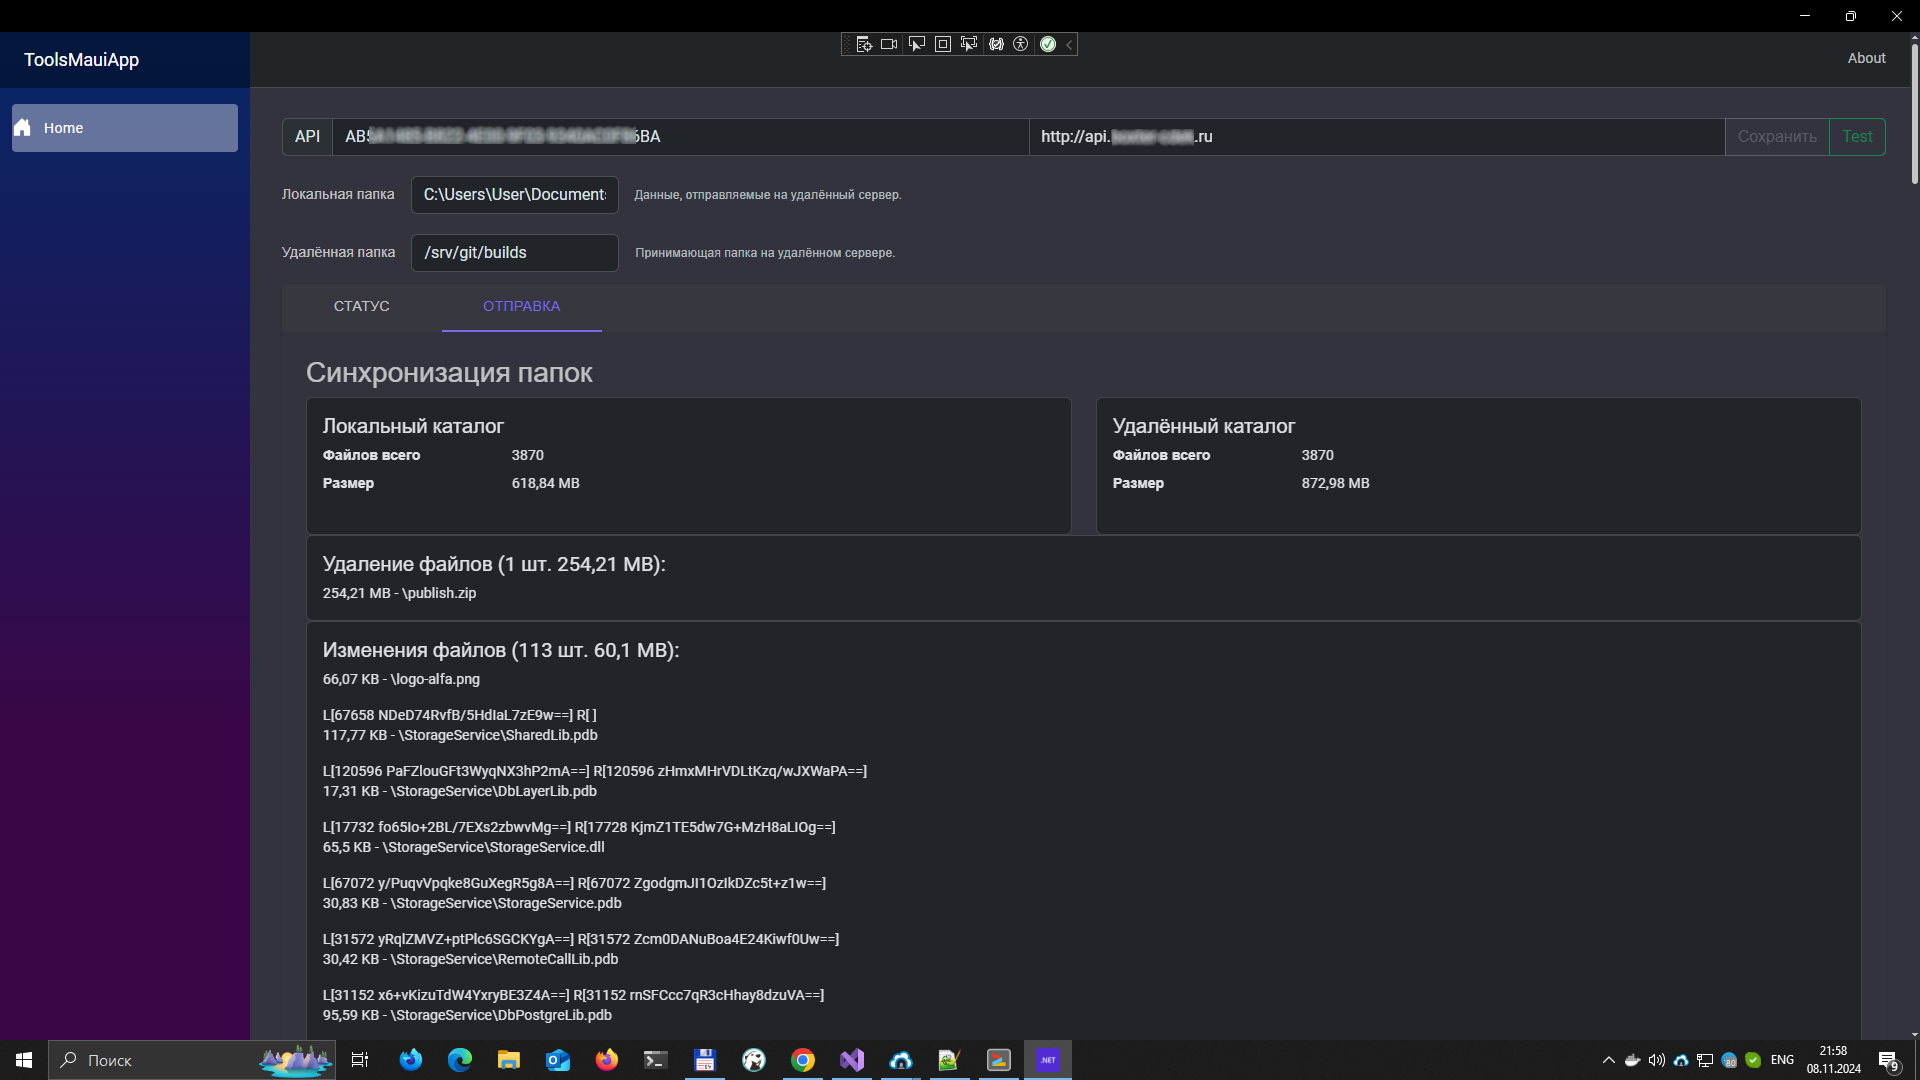
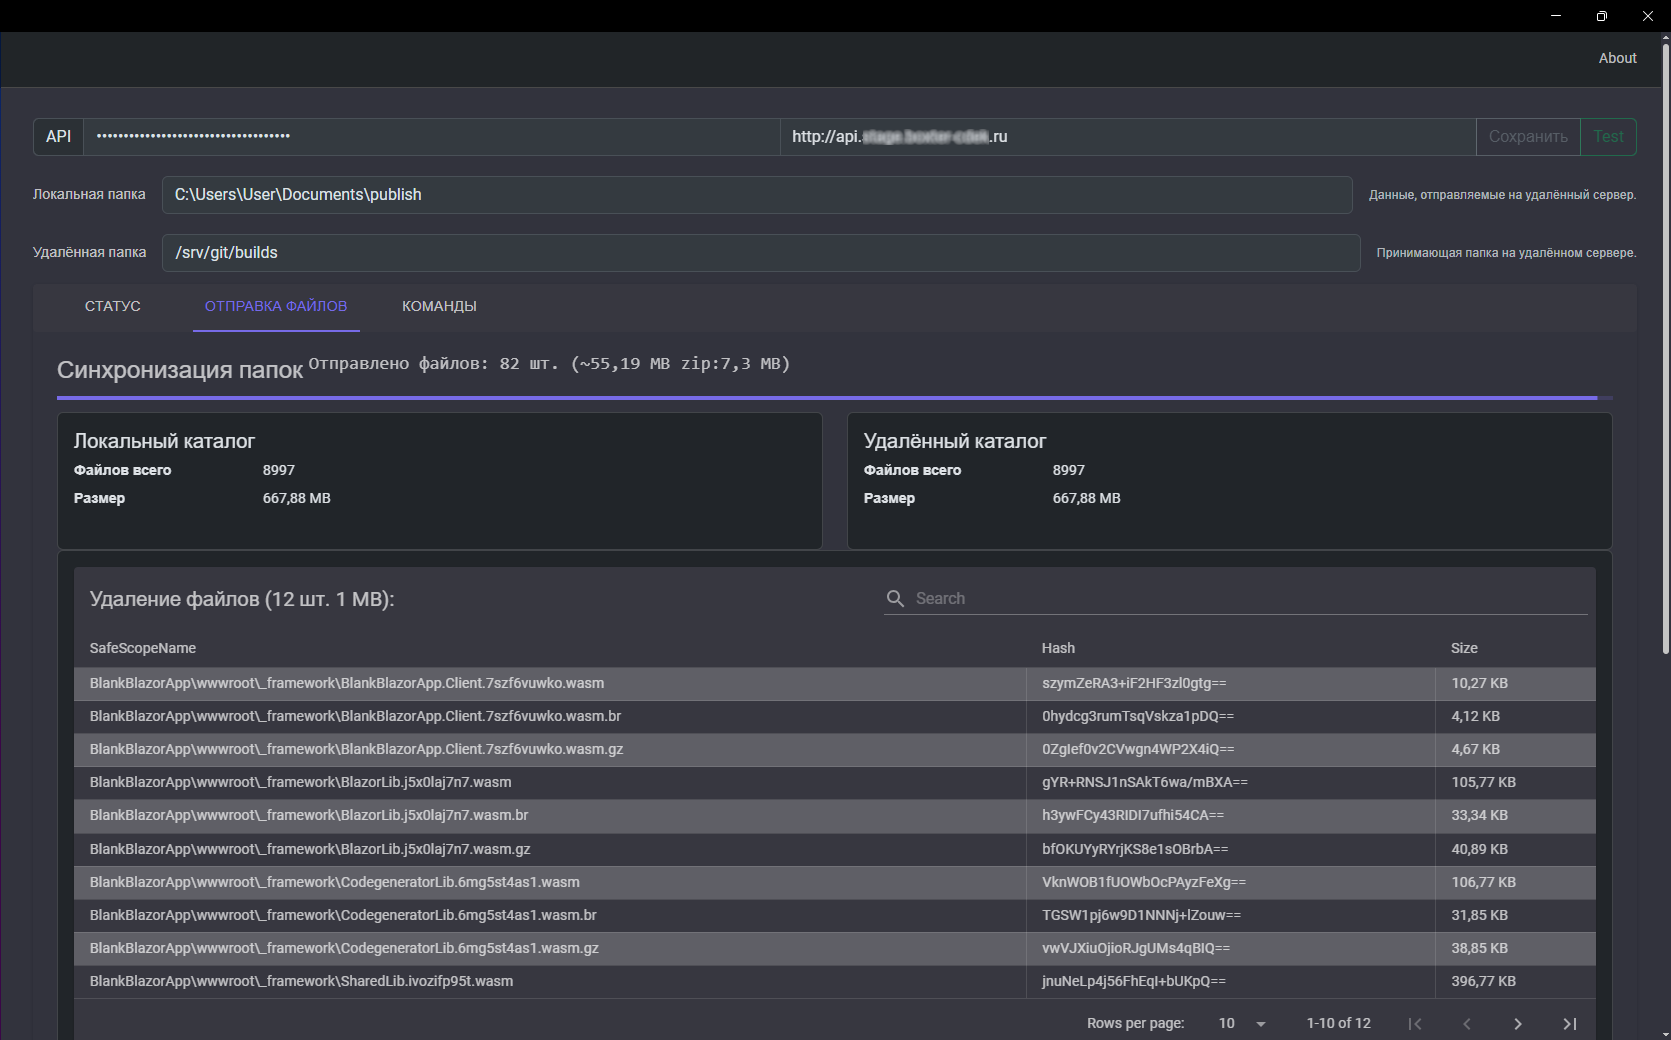
~

diff --git a/README.md b/README.md
@@ -269,9 +269,10 @@ else
 Windows/Android [утилита для удалённого взаимодействия с сервисами](https://github.com/badhitman/DesignerApp/tree/main/ToolsMauiApp). Работает через штатный [rest/api](https://github.com/badhitman/DesignerApp/tree/main/ApiRestService):
 - Синхронизация (односторонняя) папок локальной (win/android) с удалённой (на сайте). Сверка файлов производится по имени, размеру и md5:hash файла. На сервер будут доставлены только новые или изменённые файлы, а недостающие будут удалены: локальная папка устройства будет спроецирована/клонирована в папку на сайте. Каждый файл отправляется отдельно (по одному за раз), а перед отправкой сжимается ZipFile (*System.IO.Compression*).
 - Удалённый вызов команд (shell/cmd)
+- На сервере `ApiRestService` в настройках требуется указать максимальный размер пакета данных `PartUploadSessionConfig:PartUploadSize` и время жизни сессии загрузки файлов `PartUploadSessionConfig:PartUploadSessionTimeoutSeconds`. Размер пакета установлен по умолчанию 2 мегабайта - такой размер предположительно должен пройти через любые ограничения (Nginx, Kestrel и т.п.), но в случае необходимости можно его изменить. Этот параметр используется для нарезки отправляемых файлов если они больше этого ограничения. Перед отправкой файла клиент запрашивает сессию для загрузки файла. Сервер создаёт в Redis сессию и сообщает клиенту как нужно нарезать (какими частями) файл. Клиент подчиняется инструкциям сервера. Куски (части) файла в рамках одной сессии временно помещаются в Redis на срок указанной вами срока сессии (по умолчанию 1 минута). Если в рамках одной сессии не успеть отправить все части файла, тогда сессия со всеми доставленными частями исчезает и дозагрузка становится невозможной.
 
 ### STAGE контур
-Запуск нескольких копий решения внутри единой инфраструктуры.
+Запуск нескольких копий решения внутри единой инфраструктуры. Можно на одной общей инфраструктуре (Redis, Mongo, Postgres, RabbitMQ) запустить несколько копий решения таким образом что бы они друг другу не мешали. Для этого нужно указать/придумать префикс нового контура (имя) и предусмотреть под это имя строки подключения к СУБД и Redis. RabbitMQ автоматически по имени контура будет добавлять префиксы к именам очередей, а Mongo используется только для хранилища файлов. Я не настаиваю на том что подобная практика рекомендуемая, но иногда такой подход может потребоваться в целях тестирования.
 
 [^1]: Подробнее про реализацию MQ транспорта можно узнать [тут](https://github.com/badhitman/DesignerApp/tree/main/RemoteCallLib).
 
